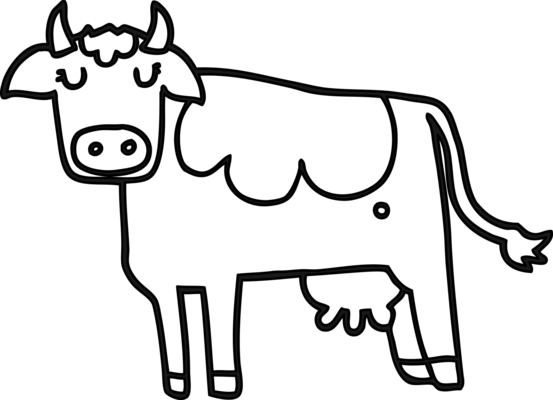
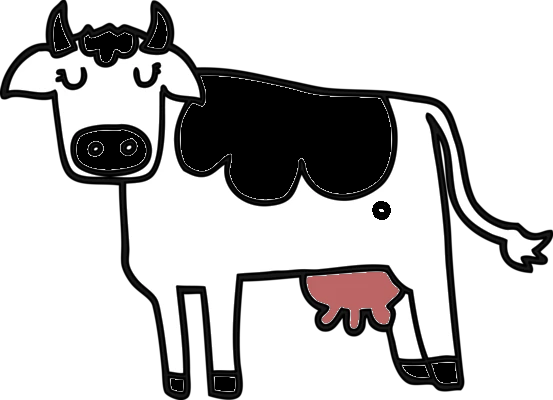
Added arena.png & changed cow1 colors

diff --git a/src/app/page.js b/src/app/page.js
@@ -1,6 +1,7 @@
 'use client'
 
 
+import InfiniteImageRoll from "@/components/InfiniteImageRoll/InfiniteImageRoll";
 import  "./page.scss";
 import Animal from "@/components/Animal/Animal";
 import { mergeCows, resetGame } from "@/utils/functions";
@@ -17,15 +18,17 @@ export default function Home() {
   useEffect(() => {
     if (pairSelected.length == 2) {
           debugger
-          mergeCows(pairSelected[0], pairSelected[1], setgroupAnimals, setpairSelected, groupAnimals)
+          mergeCows(pairSelected[0], pairSelected[1], setgroupAnimals, setpairSelected, groupAnimals, setscore)
+
+          setpairSelected([])
           setscore(prev => prev + 1)
           
+          
     }
-    
-        
+  
     const interval = setInterval(() => {
-        let randX = Math.random() * 608 + 90
-        let randY = Math.random() * 427 + 90
+        let randX = Math.random() * 484 + 200
+        let randY = Math.random() * 303 + 200
 
         if(groupAnimals.length < 8) {
           setgroupAnimals(prev => [...prev, {id: uuid(), x: randX, y: randY, mutation: 1}])
@@ -37,34 +40,35 @@ export default function Home() {
       clearInterval(interval)
     }
   }, [groupAnimals, pairSelected])
-  
-  console.log(pairSelected)
-  return (
-    <div className="game">
-        <h1>Cow Evolution Clone</h1>
-        <div className="field">
-            {
-              groupAnimals.map((value,index) => {
-                return (
-                  <Animal 
-                    key={index} 
-                    posX={value.x} 
-                    posY={value.y} 
-                    groupAnimals = {groupAnimals} 
-                    setgroupAnimals = {setgroupAnimals} 
-                    id = {value.id}
-                    pairSelected = {pairSelected}
-                    setpairSelected = {setpairSelected}
-                    mutation={value.mutation}
-                  />
-                )
-              })
-            }
-        </div>
-        <footer>
-          <button onClick={() => resetGame(setgroupAnimals,setpairSelected,setscore)}>Reset</button>
-          <p>Score: {score}</p>
-        </footer>
-    </div>
+
+    return (
+    <>
+      <div className="game">
+          <h1>Cow Evolution Clone</h1>
+          <div className="field">
+              {
+                groupAnimals.map((value,index) => {
+                  return (
+                    <Animal 
+                      key={index} 
+                      posX={value.x} 
+                      posY={value.y} 
+                      groupAnimals = {groupAnimals} 
+                      setgroupAnimals = {setgroupAnimals} 
+                      id = {value.id}
+                      pairSelected = {pairSelected}
+                      setpairSelected = {setpairSelected}
+                      mutation={value.mutation}
+                    />
+                  )
+                })
+              }
+          </div>
+          <footer>
+            <button onClick={() => resetGame(setgroupAnimals,setpairSelected,setscore)}>Reset</button>
+            <p>Score: {score}</p>
+          </footer>
+      </div>
+    </>
   );
 }

diff --git a/src/components/Animal/Animal.jsx b/src/components/Animal/Animal.jsx
@@ -6,9 +6,8 @@ import cow1 from '../../../public/cow1.webp'
 import cow2 from '../../../public/cow2.webp'
 
 
-
 const dist = 20
-const borderLimit = 688
+const borderLimit = 636
 
 const Animal = ({posX, posY,id,pairSelected, setpairSelected, setgroupAnimals, groupAnimals, mutation}) => {
 
@@ -19,16 +18,13 @@ const Animal = ({posX, posY,id,pairSelected, setpairSelected, setgroupAnimals, g
   const addCowtoPair = () => {
     
     if ( pairSelected.length == 0 || (pairSelected.length < 2 && pairSelected.some(value => value.id !== id))) {
-     
+     debugger
       setisClicked(true)
       
       setpairSelected(prev => [...prev,{id: id, x: pos.x, y: pos.y, mutation: mutation}])
-    } 
 
-    // setTimeout(() => {
-    //   setisClicked(false)
-    //   setpairSelected([])
-    // }, 5000)
+
+    } 
   }
 
   useEffect(() => {
@@ -50,11 +46,11 @@ const Animal = ({posX, posY,id,pairSelected, setpairSelected, setgroupAnimals, g
         }
         
         // Check border collisions
-        if (newPosX < borderLimit && newPosX > 100) { // Right/Left Edges
+        if (newPosX < 636 && newPosX > 152) { // Right/Left Edges
             setpos({...pos,x: newPosX})
         } 
   
-        if (newPosY  < 507 && newPosY > 100) { // Top / Bottom Edges
+        if (newPosY  < 507 && newPosY > 152) { // Top / Bottom Edges
           setpos({...pos,y: newPosY})
         }
   
@@ -69,8 +65,8 @@ const Animal = ({posX, posY,id,pairSelected, setpairSelected, setgroupAnimals, g
   }, [pos, isClicked])
   
   return (
-    <div className={`Animal ${isClicked ? "clickedAnimal" :""}`} style={{left: pos.x, top: pos.y}} onClick={() => addCowtoPair()}>
-      <Image src = {mutation == 1 ? cow1 : cow2} width={100} height={70} alt='Cow'/>
+    <div className={`Animal`} style={{left: pos.x, top: pos.y}} onClick={() => addCowtoPair()}>
+      <Image src = {mutation == 1 ? cow1 : cow2} width={130} height={70} alt='Cow'/>
     </div>
   )
 }

diff --git a/src/utils/functions.js b/src/utils/functions.js
@@ -1,14 +1,3 @@
-// - Seleção de 2 vacas para mutação
-
-// 1- Clicar na vaca para selecionar
-//   1- Clicar na vaca
-//   2- Congelar o movimento da vaca
-//   3- Verificar se a vaca ja foi selecionada, se True, sai da função, 
-//   4- Verificar se é a segunda vaca selecionada, se True, verificar se ambas possuem a mesma foto ( mutação). Se TRUE, Fazer a fusão, senão, retorna
-//   5 - Se TRUE para vacas com mesma foto, calcular distancia entre as duas e gerar uma nova 
-//   6-  Apagar as duas vacas
-// 2- Clicar em outra vaca
-// 3- tirar as duas vacas e gerar uma nova com uma nova mutação
 
 export const defineAxis = () => Math.floor(Math.random() * 2) // Function to decide direction of animal movements and the axis
 
@@ -16,21 +5,21 @@ export const defineAxis = () => Math.floor(Math.random() * 2) // Function to dec
 export const mergeCows = (cow1, cow2, setgroupAnimals, setpairSelected, groupAnimals) => {
     
     if (cow1.mutation == cow2.mutation) {
-        let posX = Math.abs(cow1.x - cow2.x)
-        let posY = Math.abs(cow1.y - cow2.y)
+        let posX = Math.abs(cow1.x + cow2.x) / 2
+        let posY = Math.abs(cow1.y + cow2.y) / 2
 
         setgroupAnimals(prev => prev.filter(value => value.id !== cow1.id))
         setgroupAnimals(prev => prev.filter(value => value.id !== cow2.id))
 
+
         setgroupAnimals(prev => [...prev, {id: prev.length - 1, x: posX, y: posY, mutation: cow1.mutation + 1}])
-        setpairSelected([])
+        
     }      
 }
 
 // Function to reset score and animal group
 
 export const resetGame = (setgroupAnimals, setpairSelected, setscore) => {
-    debugger
     setgroupAnimals([])
     setpairSelected([])
     setscore(0)

diff --git a/src/app/page.scss b/src/app/page.scss
@@ -8,28 +8,20 @@
     justify-content: center;
     align-items: center;
     overflow: hidden;
-    
-    
-    &::before {
-        content: "";
-        position: absolute;
-        top: 0;
-        left: 0;
-        width: 1000%;
-        height: 1000%;
-        opacity: .4;
-        background-image: url("../../public/cowIcon.png");
-        animation: scrollLeft 50s infinite;
-       
-    }
 
-  
+    &>h1 {
+        -webkit-text-stroke-color: black;
+        -webkit-text-stroke-width: 1px;
+        color: white;
+        font-size: 5em;
+        letter-spacing: 5px;
+    }
 
     .field {
         position: relative;
         width: 788px;
         height: 607px;
-        background-image: url("../../public/field.jpg");
+        background-image: url("../../public/arena.png");
         background-repeat: no-repeat;
     }
 
@@ -45,9 +37,11 @@
             text-align: center;
             color: white;
             background-color: #F80101;
+            border-radius: 20px;
             padding: 25px;
             font-size: 50px;
-            font-family: var("--font-jersey-10");
+            font-family: var(--font-tiny5);
+            letter-spacing: 5px;
         }
 
         p {
@@ -56,12 +50,3 @@
     }
 }
 
-@keyframes scrollLeft {
-    0% {
-        left: 0;
-    }
-
-    100% {
-        left: 100%;
-    }
-}

diff --git a/src/components/InfiniteImageRoll/InfiniteImageRoll.jsx b/src/components/InfiniteImageRoll/InfiniteImageRoll.jsx
@@ -1,0 +1,43 @@
+import Image from 'next/image'
+import React, { useEffect, useRef, useState } from 'react'
+import cowIcon from '../../../public/cowIcon.png'
+import './InfiniteImageRoll.scss'
+
+
+
+
+const InfiniteImageRoll = () => {
+
+    const image1 = useRef(null)
+    const image2 = useRef(null)
+    const image3 = useRef(null)
+
+    const [imgGroup, setimgGroup] = useState([image1, image2, image3])
+
+    useEffect(() => {
+      const interval = setInterval(() => {
+        if (imgGroup[2].current.getBoundingClientRect().x > 2501) {
+            setimgGroup(prev => [prev[2], prev[0], prev[1]])
+            console.log(imgGroup)
+        }
+        
+      },500)
+    
+      return () => {
+        clearTimeout(interval)
+      }
+    }, [imgGroup])
+    
+  return (
+    <section className='animatedBackground'>
+        {imgGroup.map((value, id) => {
+            return (
+                <Image src={cowIcon} alt='cow icon' ref={value} key={id}/>
+            ) 
+        })}
+        
+    </section>
+  )
+}
+
+export default InfiniteImageRoll

diff --git a/src/app/layout.js b/src/app/layout.js
@@ -1,4 +1,4 @@
-import { Geist, Geist_Mono } from "next/font/google";
+import { Geist, Geist_Mono, Tiny5} from "next/font/google";
 import "./globals.css";
 
 const geistSans = Geist({
@@ -11,15 +11,21 @@ const geistMono = Geist_Mono({
   subsets: ["latin"],
 });
 
+const tiny5 = Tiny5({
+  variable: "--font-tiny5",
+  subsets: ["latin"],
+  weight: "400"
+});
+
 export const metadata = {
-  title: "Create Next App",
-  description: "Generated by create next app",
+  title: "Cow Evolution",
+  description: "Created By Ruan Mesquita",
 };
 
 export default function RootLayout({ children }) {
   return (
     <html lang="en">
-      <body className={`${geistSans.variable} ${geistMono.variable}`}>
+      <body className={`${geistSans.variable} ${geistMono.variable} ${tiny5.variable}`}>
         {children}
       </body>
     </html>

diff --git a/src/app/globals.css b/src/app/globals.css
@@ -4,6 +4,7 @@
   margin: 0;
   border: none;
   list-style-type: none;
+  
 }
 
 body {
@@ -11,5 +12,9 @@ body {
   justify-content: center;
   align-items: center;
   max-width: 100vw;
-  max-height: 100vh;
+  min-height: 100vh;
+  overflow-x: hidden;
+  background-image: linear-gradient( to bottom, rgb(37, 226, 247), rgb(5, 100, 111));
+  
+  background-repeat: no-repeat;
 }

diff --git a/src/components/InfiniteImageRoll/InfiniteImageRoll.scss b/src/components/InfiniteImageRoll/InfiniteImageRoll.scss
@@ -1,0 +1,23 @@
+.animatedBackground {
+    position: absolute;
+    display: flex;
+    left: 0;
+    height: 100vh;
+    width: 300vw;
+    animation: scrollLeft 10s infinite linear;
+
+    &>*{
+        width: 100%;
+        height: 100%;
+    }
+}
+
+@keyframes scrollLeft {
+    0% {
+        left: -300%;
+    }
+
+    100% {
+        left: 100%;
+    }
+}

diff --git a/src/components/Animal/Animal.scss b/src/components/Animal/Animal.scss
@@ -15,6 +15,18 @@
         height: 100%;
         object-fit: contain;
     }
+
+    &::after {
+        position: absolute;
+        bottom: -5px;
+        left: 0;
+        content: "";
+        width: 100%;
+        height: 10px;
+        background-color: rgba(0, 0, 0, 0.248);
+        border-radius: 50%;
+        
+    }
 }
 
 .clickedAnimal {
